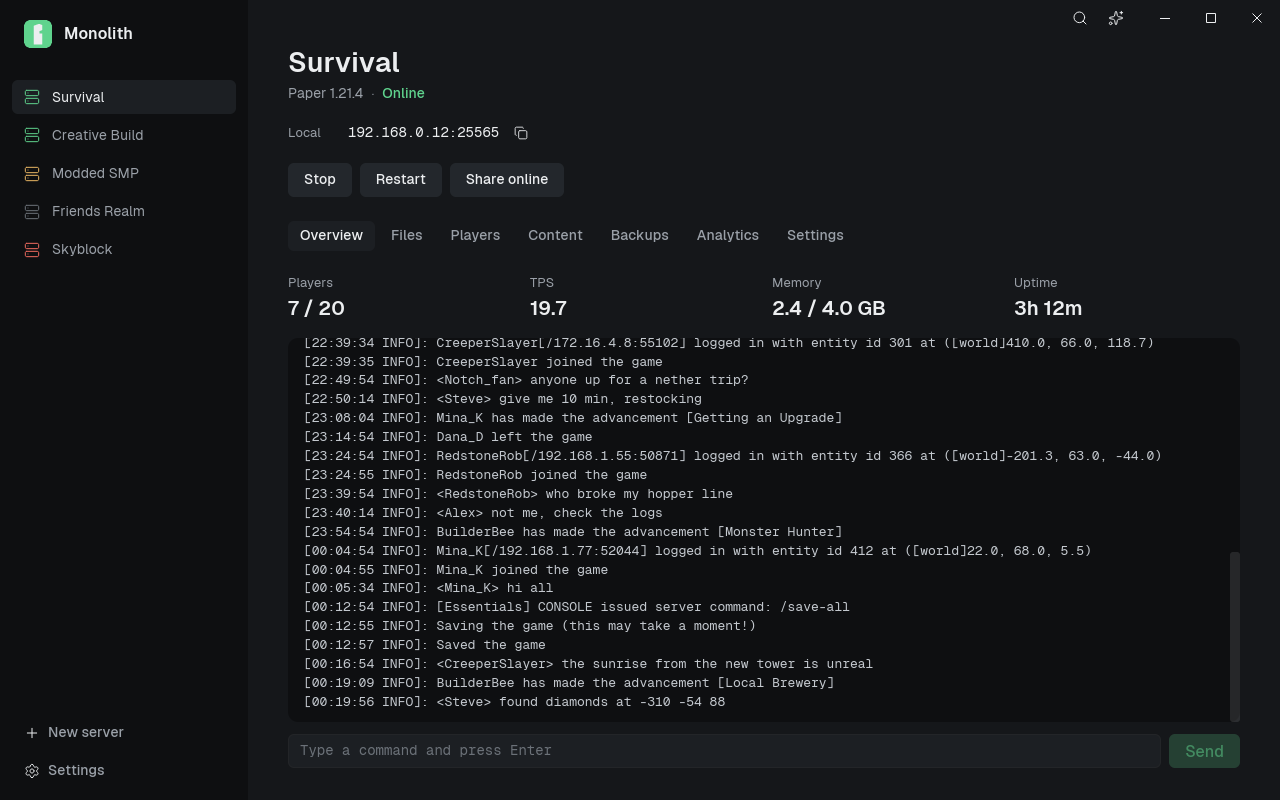
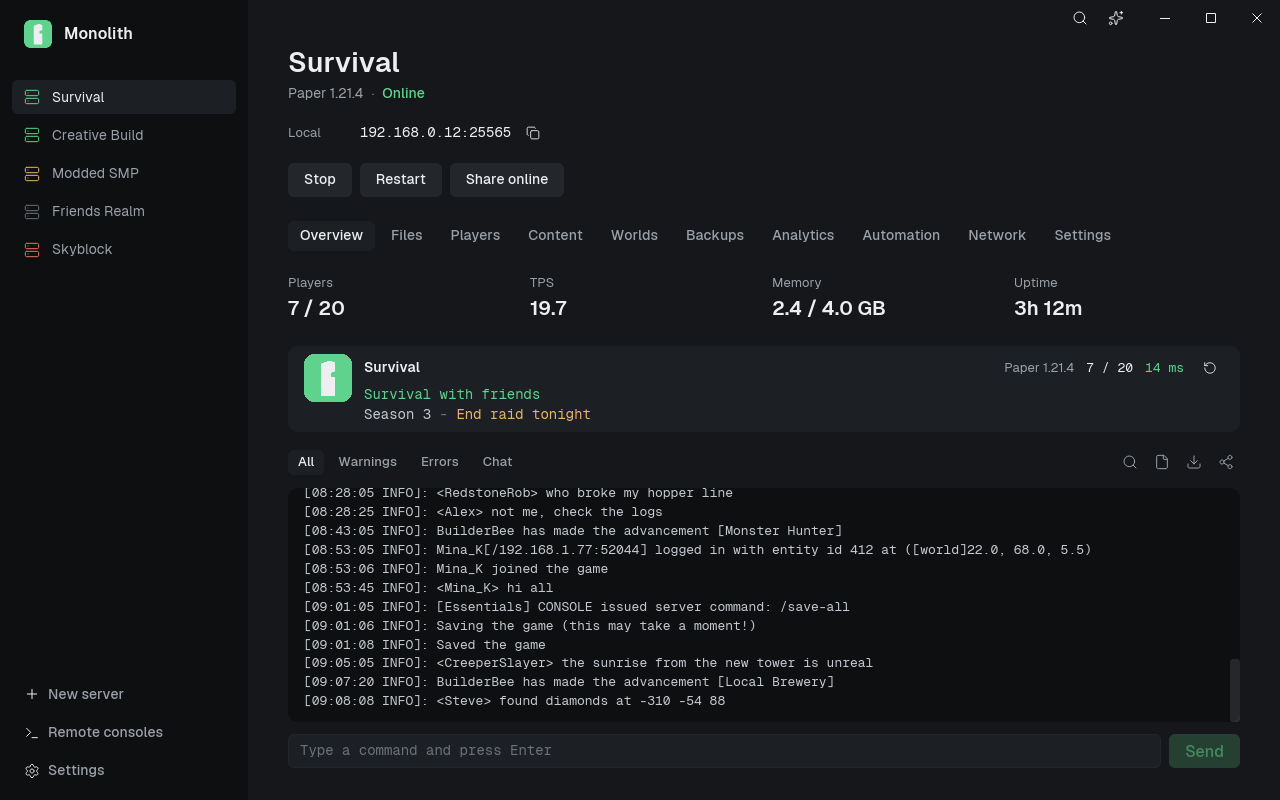
docs: refresh README screenshots and feature list for 0.1.0

diff --git a/README.md b/README.md
@@ -1,36 +1,34 @@
 ![Monolith](assets/brand/readme-banner.png)
 
-Monolith is a Minecraft server manager for Windows. It sets up, runs, shares and backs up your servers from one small native app, so you never have to touch a config file unless you want to.
+Monolith is a Minecraft server manager for Windows. Create, run, share and back up servers from one native app.
 
 ![Monolith showing a running server](docs/screenshots/overview.png)
 
 ## Features
 
-- **Create a server in about a minute.** Pick Paper, Purpur, Fabric, Quilt, Forge, NeoForge or Vanilla and a Minecraft version (snapshots and pre-releases included). Monolith downloads the server (running the loader installer for Forge, NeoForge and Quilt) and the right Java runtime for you.
-- **Play with friends.** Copy the join address for your local network, or turn on sharing to get a public address through ngrok.
-- **Live console.** Colour-coded output right on the Overview, with players, TPS, memory and uptime above it, command history, and a view that stays put while you scroll.
-- **Players.** Kick, ban or make someone an operator straight from the list of who's online.
-- **Plugins and mods.** Search, install and update from Modrinth. Default plugin groups (for example "Performance" or "Skript") let you choose what goes on every new server.
-- **Settings without config files.** Common `server.properties` options as plain controls, plus a raw editor, whitelist, ban list and file browser.
-- **Backups.** One-click backups, scheduled backups and safe restores.
-- **Stays up.** Automatic restart after a crash, scheduled daily restarts with in-game warnings, and port conflict detection with a one-click fix.
-- **Analytics.** The bundled Monolith Analytics plugin charts TPS, memory and players over time on Paper and Purpur servers.
-- **Keyboard first.** `Ctrl+K` opens a command palette for servers, actions and settings.
-- **Optional AI assistant.** Bring your own OpenAI-compatible key. It can suggest changes, but nothing runs until you confirm the exact command or edit.
+- **Create** servers on Paper, Purpur, Fabric, Quilt, Forge, NeoForge or Vanilla, from a Modrinth or CurseForge modpack, a saved template, or a copy of another server. Java is downloaded for you.
+- **Console** with real Minecraft colours, `Ctrl+F` search, level and chat filters, Tab completion, old logs, crash reports with a likely cause, and mclo.gs uploads.
+- **Players**: operators with levels, ban reasons and temporary bans, IP bans, and a whitelist you can fill in bulk.
+- **Content** from Modrinth, Hangar, Spigot and optionally CurseForge, with dependency checks and disabling without deleting.
+- **Worlds**: switch, create, import, export and reset worlds, manage data packs, pre-generate with Chunky and trim unvisited chunks.
+- **Backups** on a schedule, on stop and before software changes, with retention, locking, excluded paths and a second copy folder.
+- **Automation**: scheduled tasks, triggers on joins, chat and crashes, restarts that wait for an empty server, a watchdog, automatic server updates and sleep mode.
+- **Network**: UPnP port forwarding, a reachability check, a firewall rule, Bedrock crossplay with Geyser, playit.gg or ngrok tunnels, and a Velocity proxy wizard.
+- **Settings**: every `server.properties` key as a control with a MOTD preview, Bukkit, Spigot, Paper and Purpur config forms, live game rules, server icon and Java GC presets.
+- **Also**: Discord alerts, RCON consoles, spark profiling, disk usage, analytics charts, a file editor with syntax checks, a `Ctrl+K` command palette, and an optional AI assistant that only acts after you confirm.
 
 <p>
+  <img src="docs/screenshots/worlds.png" width="49%" alt="Worlds">
+  <img src="docs/screenshots/automation.png" width="49%" alt="Automation">
+  <img src="docs/screenshots/network.png" width="49%" alt="Network">
   <img src="docs/screenshots/players.png" width="49%" alt="Players">
-  <img src="docs/screenshots/analytics.png" width="49%" alt="Analytics">
 </p>
 
 ## Getting started
 
-1. Download `Monolith-Setup-<version>.exe` from [Releases](https://github.com/waykehatescoding/monolith/releases) and run it. It installs for your user only and doesn't need admin rights.
-2. Open Monolith and choose **Create your first server**.
-3. Press **Start**. The first start asks you to accept the Minecraft EULA once and downloads anything missing.
-4. Copy the join address from the server's page and send it to your friends. Friends on the same network can use it directly; for everyone else, press **Share** and copy the public address.
-
-Already have a server folder or an export zip? Use **Import a server** instead.
+1. Download `Monolith-Setup-<version>.exe` from [Releases](https://github.com/waykehatescoding/monolith/releases) and run it.
+2. Open Monolith, choose **Create your first server**, then press **Start** and accept the EULA.
+3. Copy the join address and send it to your friends. For anyone outside your network, press **Share** or set up the **Network** tab.
 
 ## Requirements
 
